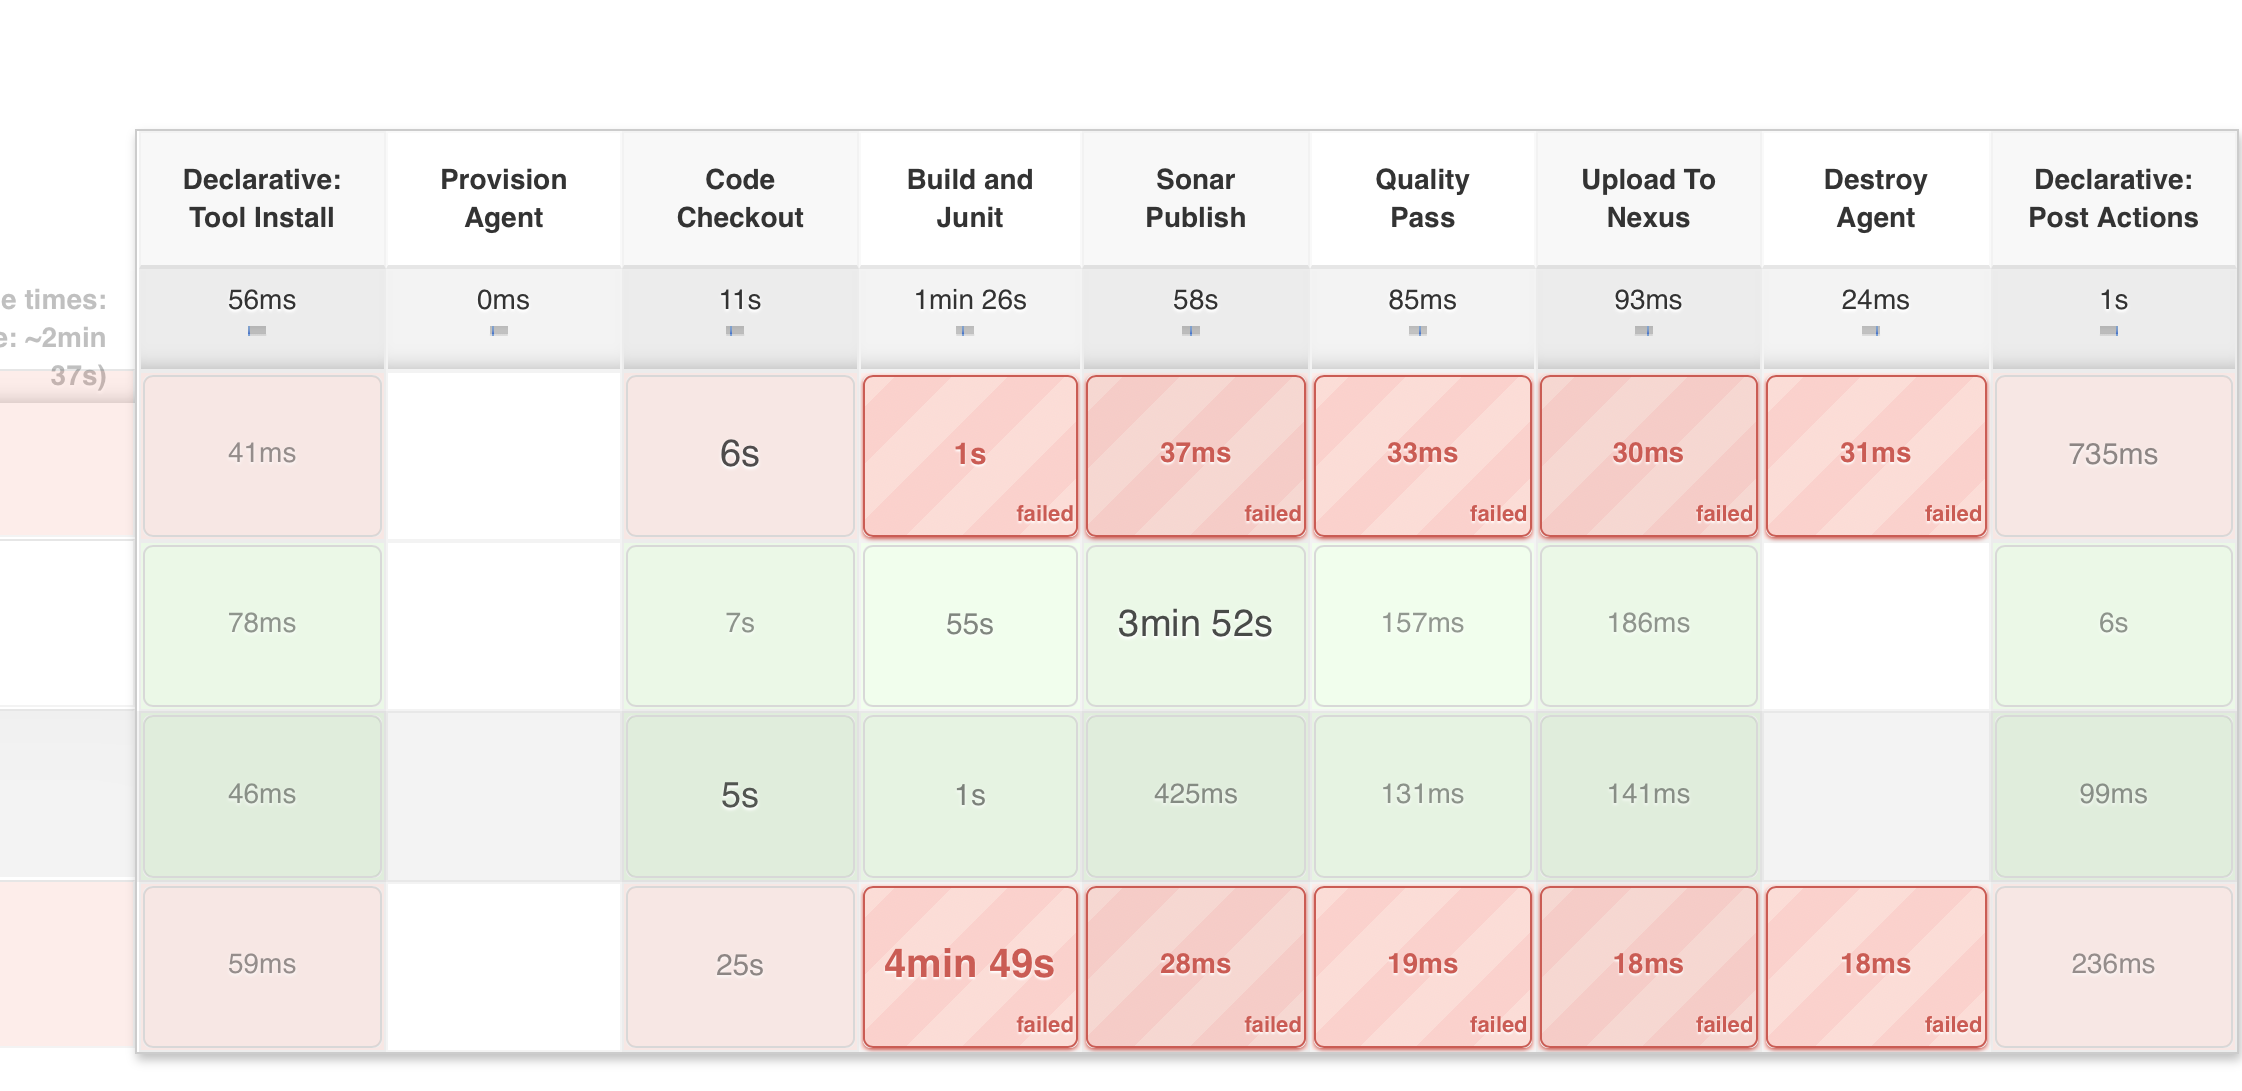
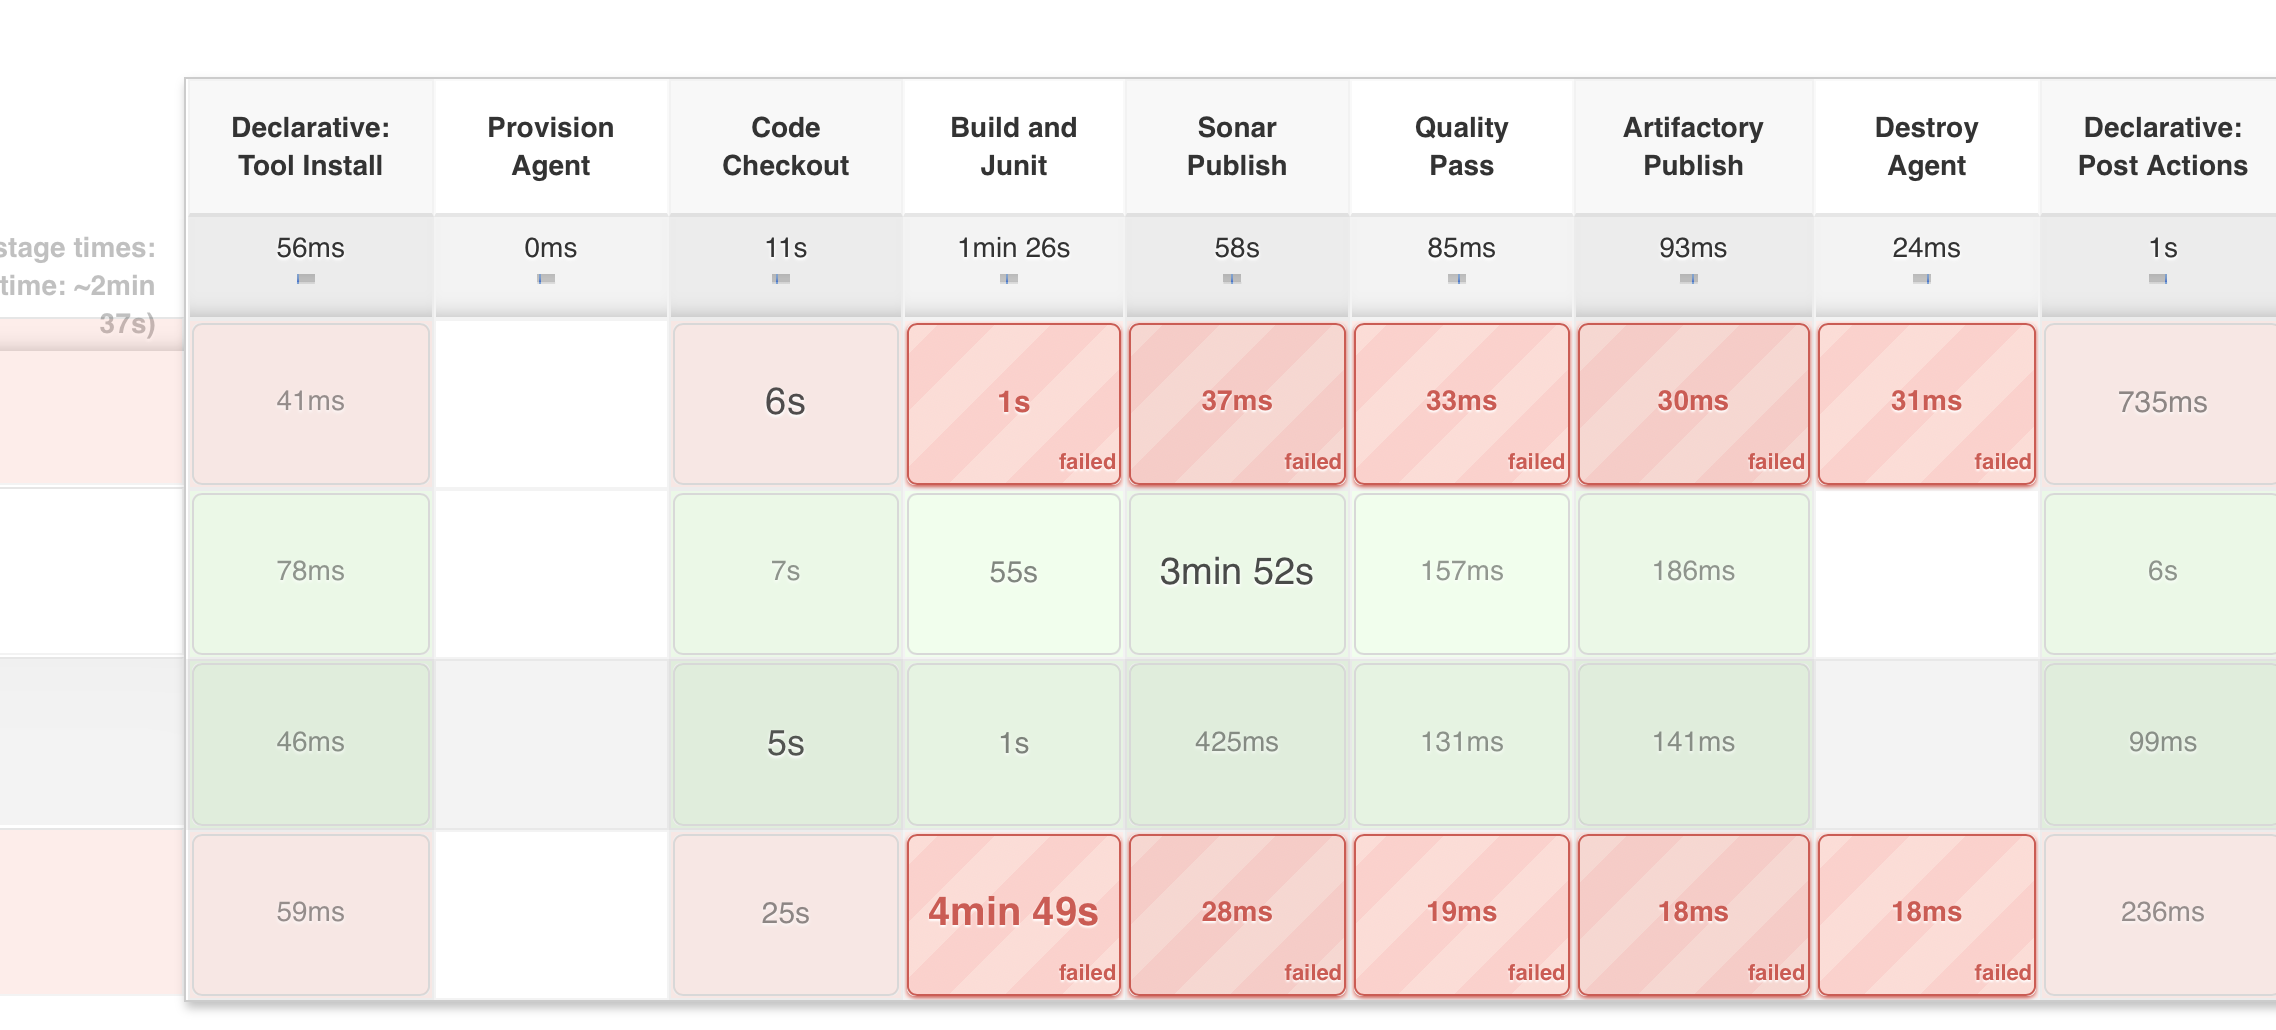
Updated pipeline steps

diff --git a/README.md b/README.md
@@ -1,15 +1,19 @@
 ## Jenkins Shared Libraries
 
-Repository contains pipeline shared libraries that can be hosted onto Enterprise CI platform designed.
+Repository contains pipeline shared libraries that can be hosted onto any Jenkins platform.
 
-* Jenkins CI-Pipeline as service to be consumable by Java and Maven based projects written in groovy template.
+Objective is to ensure common CI-pipeline steps - Checkout, BuildnJunit, SonarChecks, Quality Gates, Artifactory Publish are applied to all the projects in general.
+
+
 
 
 ### Folder Structure 
 
-* vars/MavenBuild_CIpipeline
+#### vars/MavenBuild_CIpipeline
 
-Used for Java projects that are based on maven builds.
+* Jenkins CI-Pipeline as service to be consumable by Java and Maven based projects written in groovy template.
+
+* Used for Java projects that are based on maven builds.
 
 
 ### Versions supported and assumptions
@@ -49,7 +53,8 @@ MavenBuild_CIpipeline(inputConfig)
 
 #### Final: Jenkinsfile
 
-* Finally, Jenkinsfile should look like this.
+* Finally, Jenkinsfile should look like this. In Less than 20 lines (only configurations) - complete CI pipeline will be generated.
+
 ```
 @Library('jenkins-library@master') _
 
